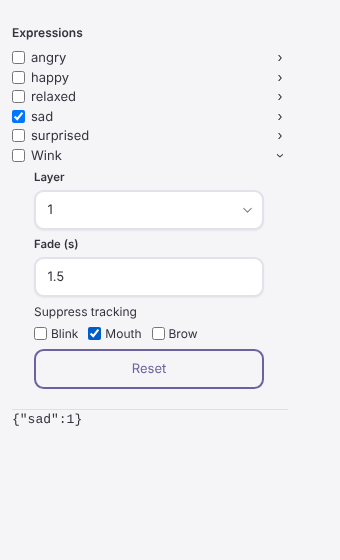
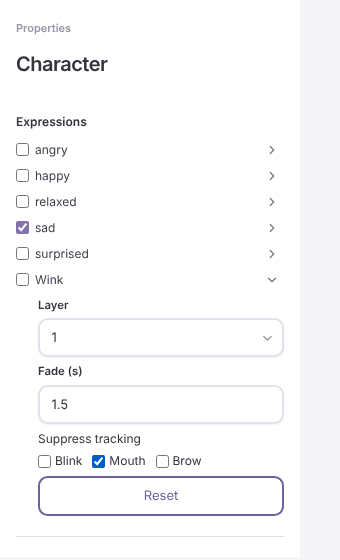
fix: show expression names in the Inspector rows on WebKit
The rows used display: contents on a details element inside a grid.
They now use a flex line and a disclosure button.

Claude-Session: https://claude.ai/code/session_017qWiBpF1AFHbnY6t17JJE9

Changed region(s): [[0.0294, 0.0304, 0.8529, 0.9411]]

diff --git a/apps/desktop/src/components/AvatarExpressionFields.svelte b/apps/desktop/src/components/AvatarExpressionFields.svelte
@@ -1,5 +1,6 @@
 <script lang="ts">
  import { Button, Input, Select } from '@oshi-connect/ui';
+ import { ChevronRight } from '@lucide/svelte';
  import type { ExpressionSettings, ExpressionState, ExpressionView, Reply } from '@opensekai/contracts';
  import { editSettings, LAYER_OPTIONS } from '../editor/expressions';
  export interface ExpressionApi {
@@ -10,7 +11,7 @@
   avatarId: string; revision: number; api: ExpressionApi; disabled?: boolean;
   onsettings: (avatarId: string, name: string, settings: ExpressionSettings | null, revision: number) => Promise<unknown>;
  } = $props();
- let list = $state.raw<ExpressionView[]>([]), error = $state<string | null>(null), busy = $state(false);
+ let list = $state.raw<ExpressionView[]>([]), error = $state<string | null>(null), busy = $state(false), open = $state<string | null>(null);
  let request = 0, shown: string | null = null;
  async function read(id: string) {
   const ticket = ++request;
@@ -24,7 +25,7 @@
  $effect(() => {
   const id = avatarId;
   void revision;
-  if (shown !== id) { list = []; shown = id; }
+  if (shown !== id) { list = []; open = null; shown = id; }
   void read(id);
   const timer = setInterval(() => { if (!busy) void read(id); }, 500);
   return () => { clearInterval(timer); request += 1; };
@@ -49,21 +50,21 @@
  <h4 id="expressions-{avatarId}">Expressions</h4>
  {#each list as view (view.name)}
   <div class="row">
-   <label class="toggle"><input type="checkbox" role="switch" checked={view.active} {disabled} onchange={event => toggle(view, event.currentTarget)} />{view.name}</label>
-   <details>
-    <summary aria-label="{view.name} settings"></summary>
-    <fieldset {disabled}>
-     <Select label="Layer" value={String(view.layer)} options={LAYER_OPTIONS} onchange={event => commit(view, { layer: event.currentTarget.value })} />
-     <Input type="number" label="Fade (s)" min={0} max={5} step="0.1" value={String(view.fadeSeconds)} onchange={event => { const input = event.currentTarget; commit(view, { fadeSeconds: input.value }, () => { input.value = String(view.fadeSeconds); }); }} />
-     <div class="suppress" role="group" aria-label="Suppress tracking"><span>Suppress tracking</span>
-      {#each [['blink', 'Blink'], ['mouth', 'Mouth'], ['brow', 'Brow']] as const as [key, label] (key)}
-       <label><input type="checkbox" checked={view.suppress[key]} onchange={event => commit(view, { suppress: { [key]: event.currentTarget.checked } })} />{label}</label>
-      {/each}
-     </div>
-     <Button type="button" variant="ghost" onclick={() => void onsettings(avatarId, view.name, null, revision)}>Reset</Button>
-    </fieldset>
-   </details>
+   <label class="toggle"><input type="checkbox" role="switch" checked={view.active} {disabled} onchange={event => toggle(view, event.currentTarget)} /><span class="name">{view.name}</span></label>
+   <button type="button" class="disclose" aria-expanded={open === view.name} aria-label="{view.name} settings" onclick={() => { open = open === view.name ? null : view.name; }}><ChevronRight size={14} /></button>
   </div>
+  {#if open === view.name}
+   <fieldset {disabled}>
+    <Select label="Layer" value={String(view.layer)} options={LAYER_OPTIONS} onchange={event => commit(view, { layer: event.currentTarget.value })} />
+    <Input type="number" label="Fade (s)" min={0} max={5} step="0.1" value={String(view.fadeSeconds)} onchange={event => { const input = event.currentTarget; commit(view, { fadeSeconds: input.value }, () => { input.value = String(view.fadeSeconds); }); }} />
+    <div class="suppress" role="group" aria-label="Suppress tracking"><span>Suppress tracking</span>
+     {#each [['blink', 'Blink'], ['mouth', 'Mouth'], ['brow', 'Brow']] as const as [key, label] (key)}
+      <label><input type="checkbox" checked={view.suppress[key]} onchange={event => commit(view, { suppress: { [key]: event.currentTarget.checked } })} />{label}</label>
+     {/each}
+    </div>
+    <Button type="button" variant="ghost" onclick={() => void onsettings(avatarId, view.name, null, revision)}>Reset</Button>
+   </fieldset>
+  {/if}
  {/each}
  {#if error}<p role="alert">{error}</p>{/if}
 </section>
@@ -71,14 +72,16 @@
 <style>
  .expressions{padding:12px 0;border-bottom:1px solid #e1dee6}
  h4{font-size:12px;font-weight:600;margin:0 0 6px}
- .row{display:grid;grid-template-columns:1fr auto;align-items:center;gap:0 8px}
- .toggle{display:flex;align-items:center;gap:6px;min-width:0;overflow:hidden;text-overflow:ellipsis;white-space:nowrap}
- details{display:contents}
- summary{cursor:pointer;list-style:none;width:16px;text-align:center}
- summary::after{content:'›';display:inline-block;transition:transform .15s}
- details[open] summary::after{transform:rotate(90deg)}
- fieldset{grid-column:1/-1;border:0;margin:4px 0 8px;padding:0 0 0 22px;display:flex;flex-direction:column;gap:6px;min-width:0}
+ .row{display:flex;align-items:center;gap:8px;min-height:26px}
+ .toggle{display:flex;flex:1 1 auto;align-items:center;gap:6px;min-width:0;font-size:12px;color:#423c4b}
+ .toggle input{flex:none;accent-color:#8571ac}
+ .name{flex:1 1 auto;min-width:0;overflow:hidden;text-overflow:ellipsis;white-space:nowrap}
+ .disclose{flex:none;display:inline-flex;align-items:center;justify-content:center;width:24px;height:24px;padding:0;border:0;border-radius:4px;background:transparent;color:#78717f;cursor:pointer}
+ .disclose :global(svg){transition:transform .15s}
+ .disclose[aria-expanded='true'] :global(svg){transform:rotate(90deg)}
+ fieldset{border:0;margin:4px 0 8px;padding:0 0 0 22px;display:flex;flex-direction:column;gap:6px;min-width:0}
  .suppress{display:flex;flex-wrap:wrap;gap:4px 10px;font-size:12px}
  .suppress span{width:100%}
  .suppress label{display:flex;align-items:center;gap:4px}
+ @media (prefers-reduced-motion:reduce){.disclose :global(svg){transition:none}}
 </style>

diff --git a/docs/evaluation/character-expressions.md b/docs/evaluation/character-expressions.md
@@ -4,7 +4,7 @@ Date: 2026-10-17. Contract: [character expressions](../../spdd/prompt/2026-10-10
 
 ## What was checked
 
-A temporary Vite page mounted the real `AvatarExpressionFields` component. It used a real session (`createSession`) with the smoke scene and a record with the expression names of the pinned fixture VRM plus one custom expression `Wink`. The page advanced the session every 16 ms. The page was removed after the check.
+A temporary Vite page mounted the real `AvatarExpressionFields` component inside the Inspector panel classes (`properties-column`, `inspector`). It used a real session (`createSession`) with the smoke scene and a record with the expression names of the pinned fixture VRM plus one custom expression `Wink`. The page advanced the session every 16 ms. The page was removed after the check.
 
 | Step | Result |
 | --- | --- |
@@ -13,9 +13,14 @@ A temporary Vite page mounted the real `AvatarExpressionFields` component. It us
 | Switch `sad` on (same layer 0) | `happy` switch clears; pose `{"sad":1}` after 0.7 s. |
 | `Wink` settings: Fade 1.5, Mouth on | Scene avatar `expressions` = `{"Wink":{"layer":1,"fadeSeconds":1.5,"suppress":{"blink":false,"mouth":true,"brow":false}}}`. |
 | Reset | The `expressions` key is removed; Fade shows 0.4 again. |
+| Name column width (Inspector panel classes, 300 px column) | 217 px for each row after the row layout change in response to the owner report on #178. |
 | Page errors | One 404 for a missing favicon. No script error. |
 
 ![Expressions group with the Wink settings open](character-expressions/inspector-group-linux.png)
+
+## Row layout change
+
+The owner reported on #178 that the macOS editor did not show the expression names. The first layout put each row in a grid and set `display: contents` on a `<details>` element. WebKit, which the macOS app uses, does not handle that case reliably. The rows now use a flex line and a disclosure button. The cloud has no WebKit browser, so the macOS result is still unknown.
 
 ## Not checked
 
